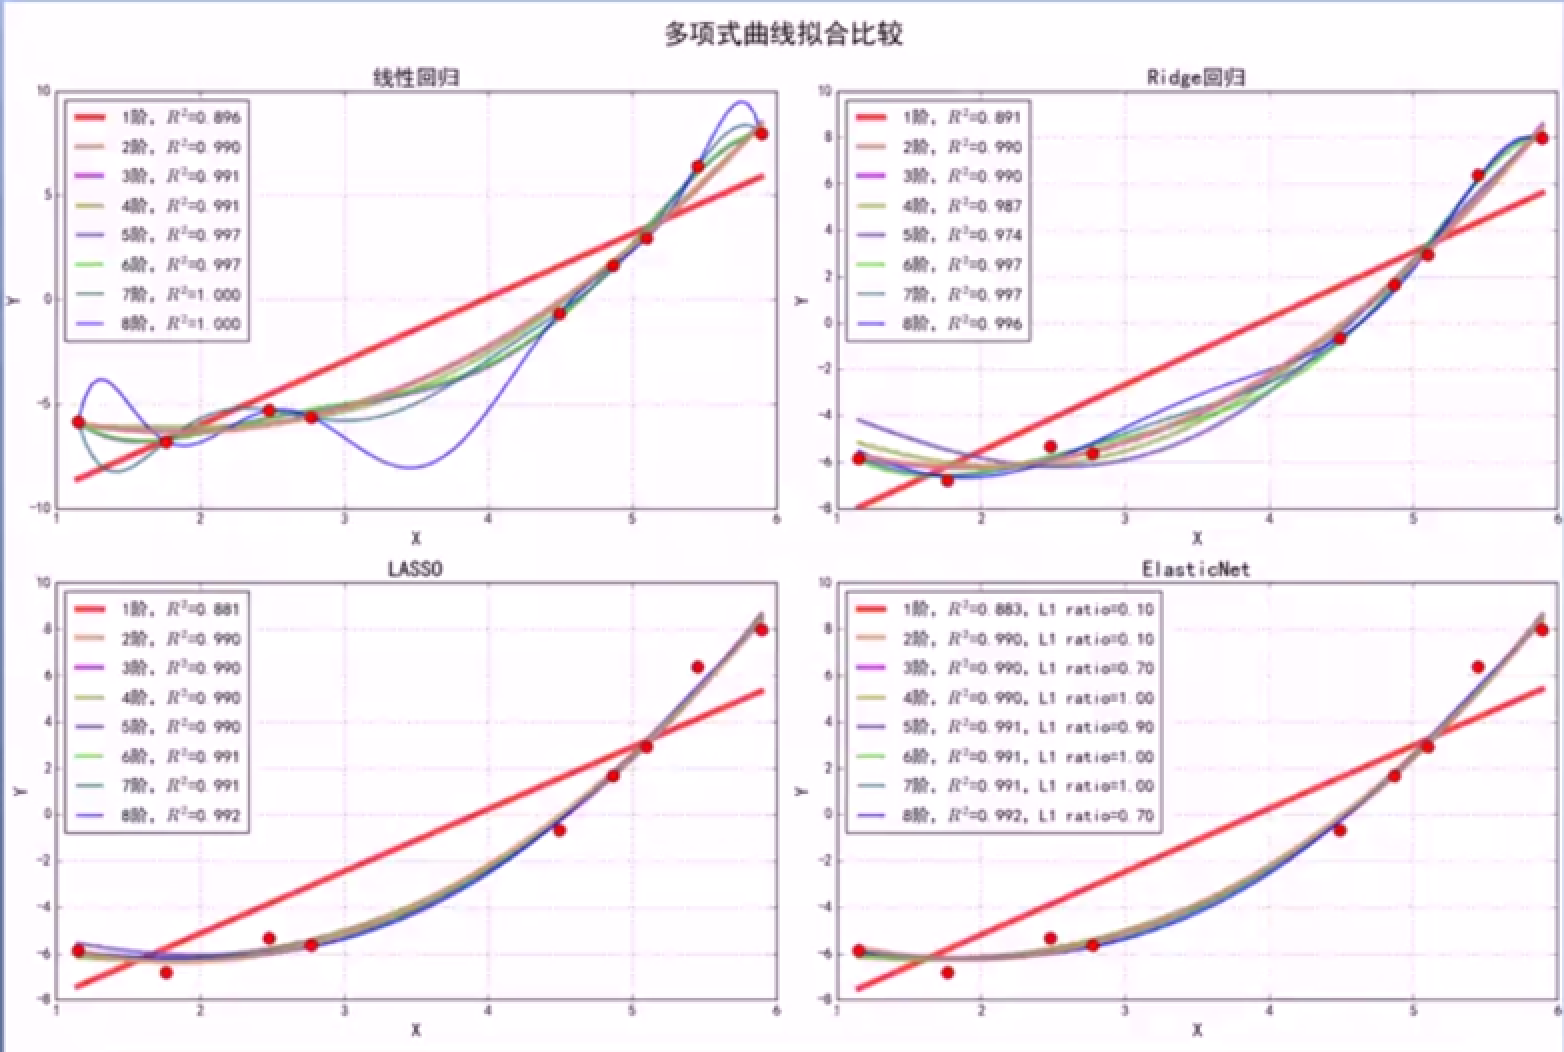
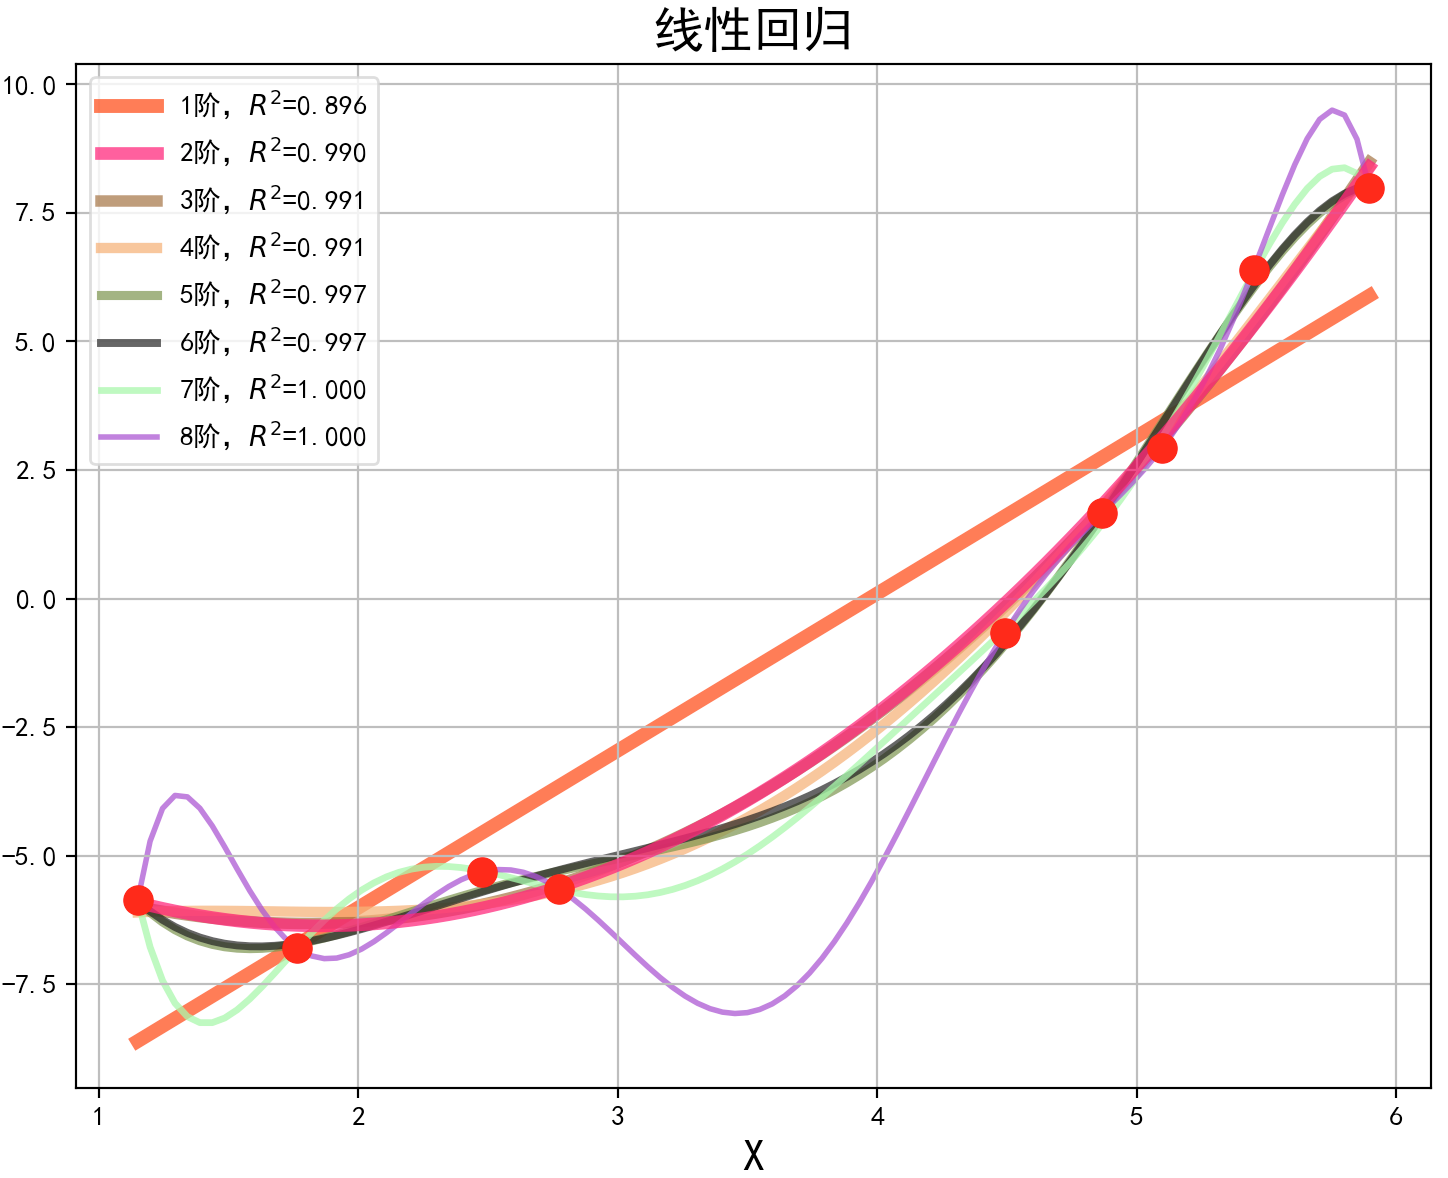
线性回归

diff --git a/src/MLExamples/08.Regression/8.3.ElasticNet.py b/src/MLExamples/08.Regression/8.3.ElasticNet.py
@@ -37,7 +37,7 @@ if __name__ == "__main__":
     warnings.filterwarnings(action='ignore', category=ConvergenceWarning)
     np.random.seed(0)
     np.set_printoptions(linewidth=1000)
-    N = 1
+    N = 9
     x = np.linspace(0, 6, N) + np.random.randn(N)
     x = np.sort(x)
     y = x**2 - 4*x - 3 + np.random.randn(N)
